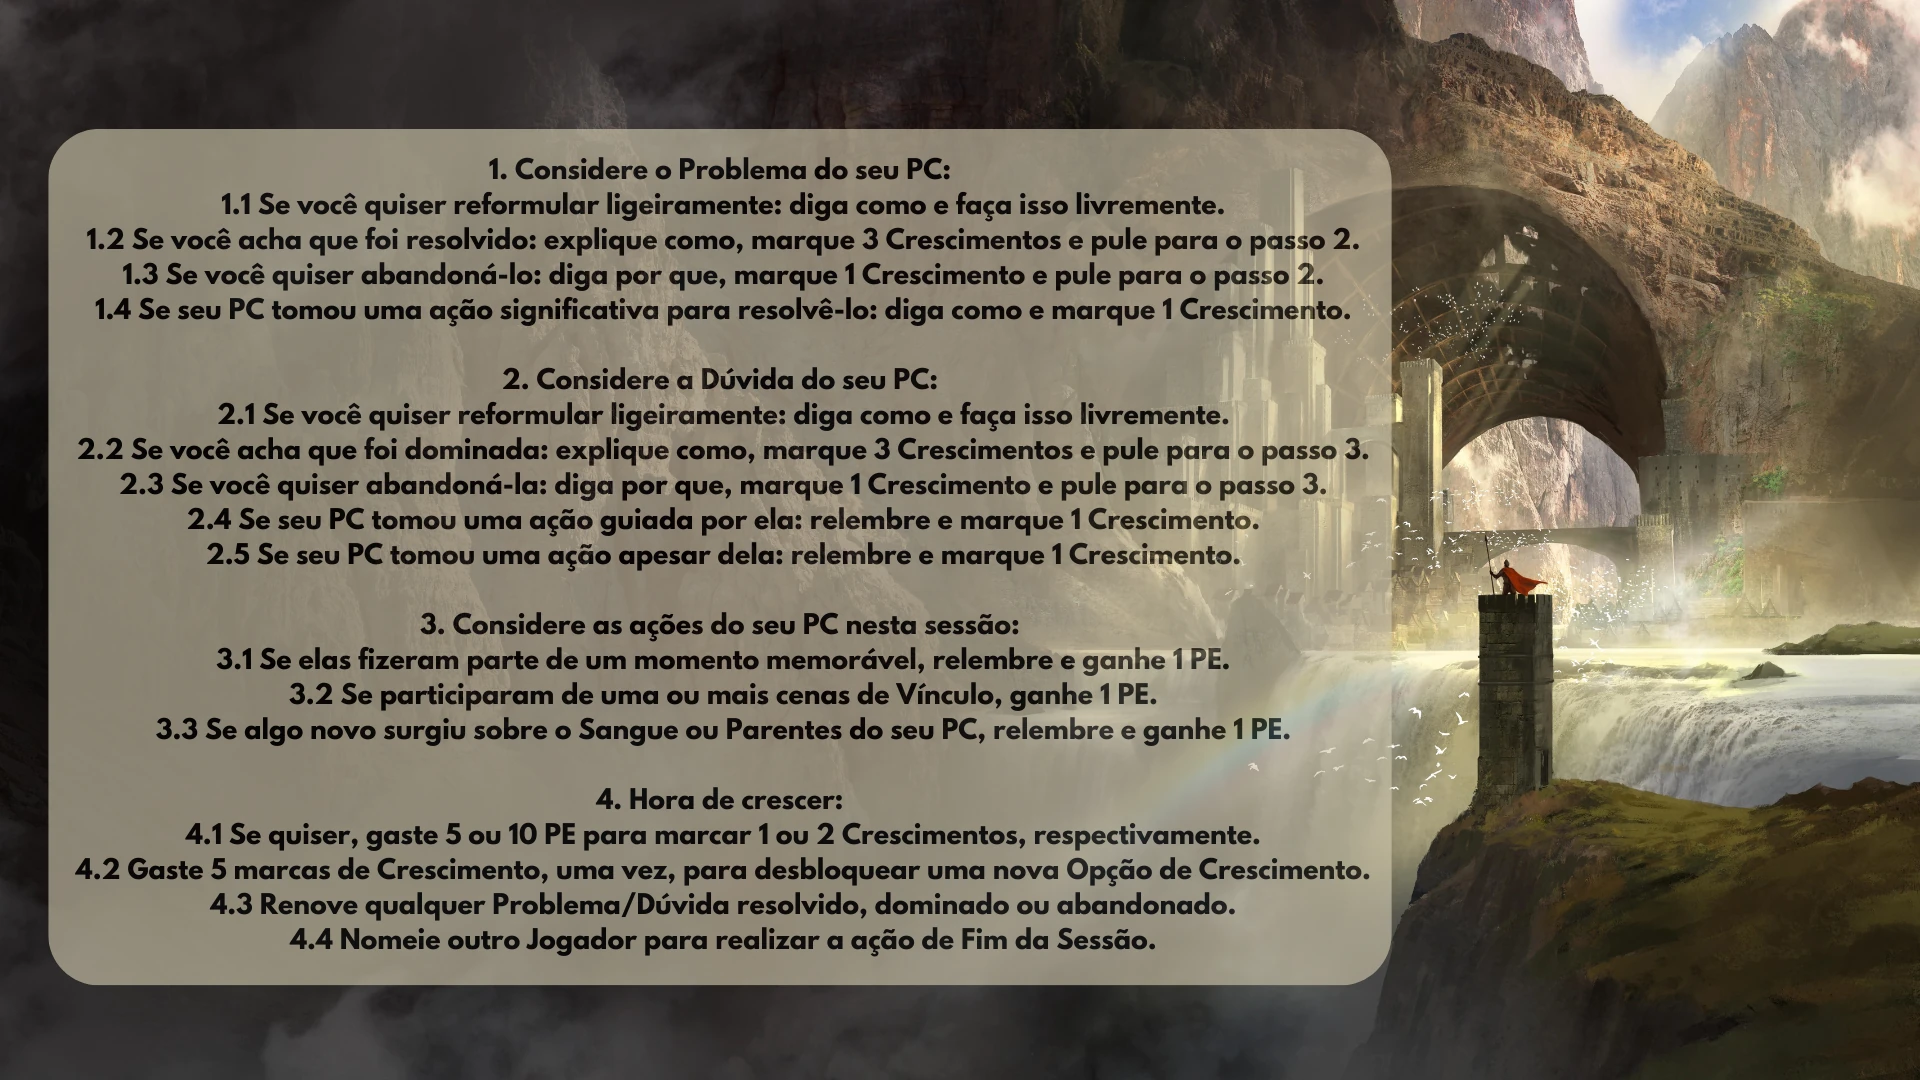
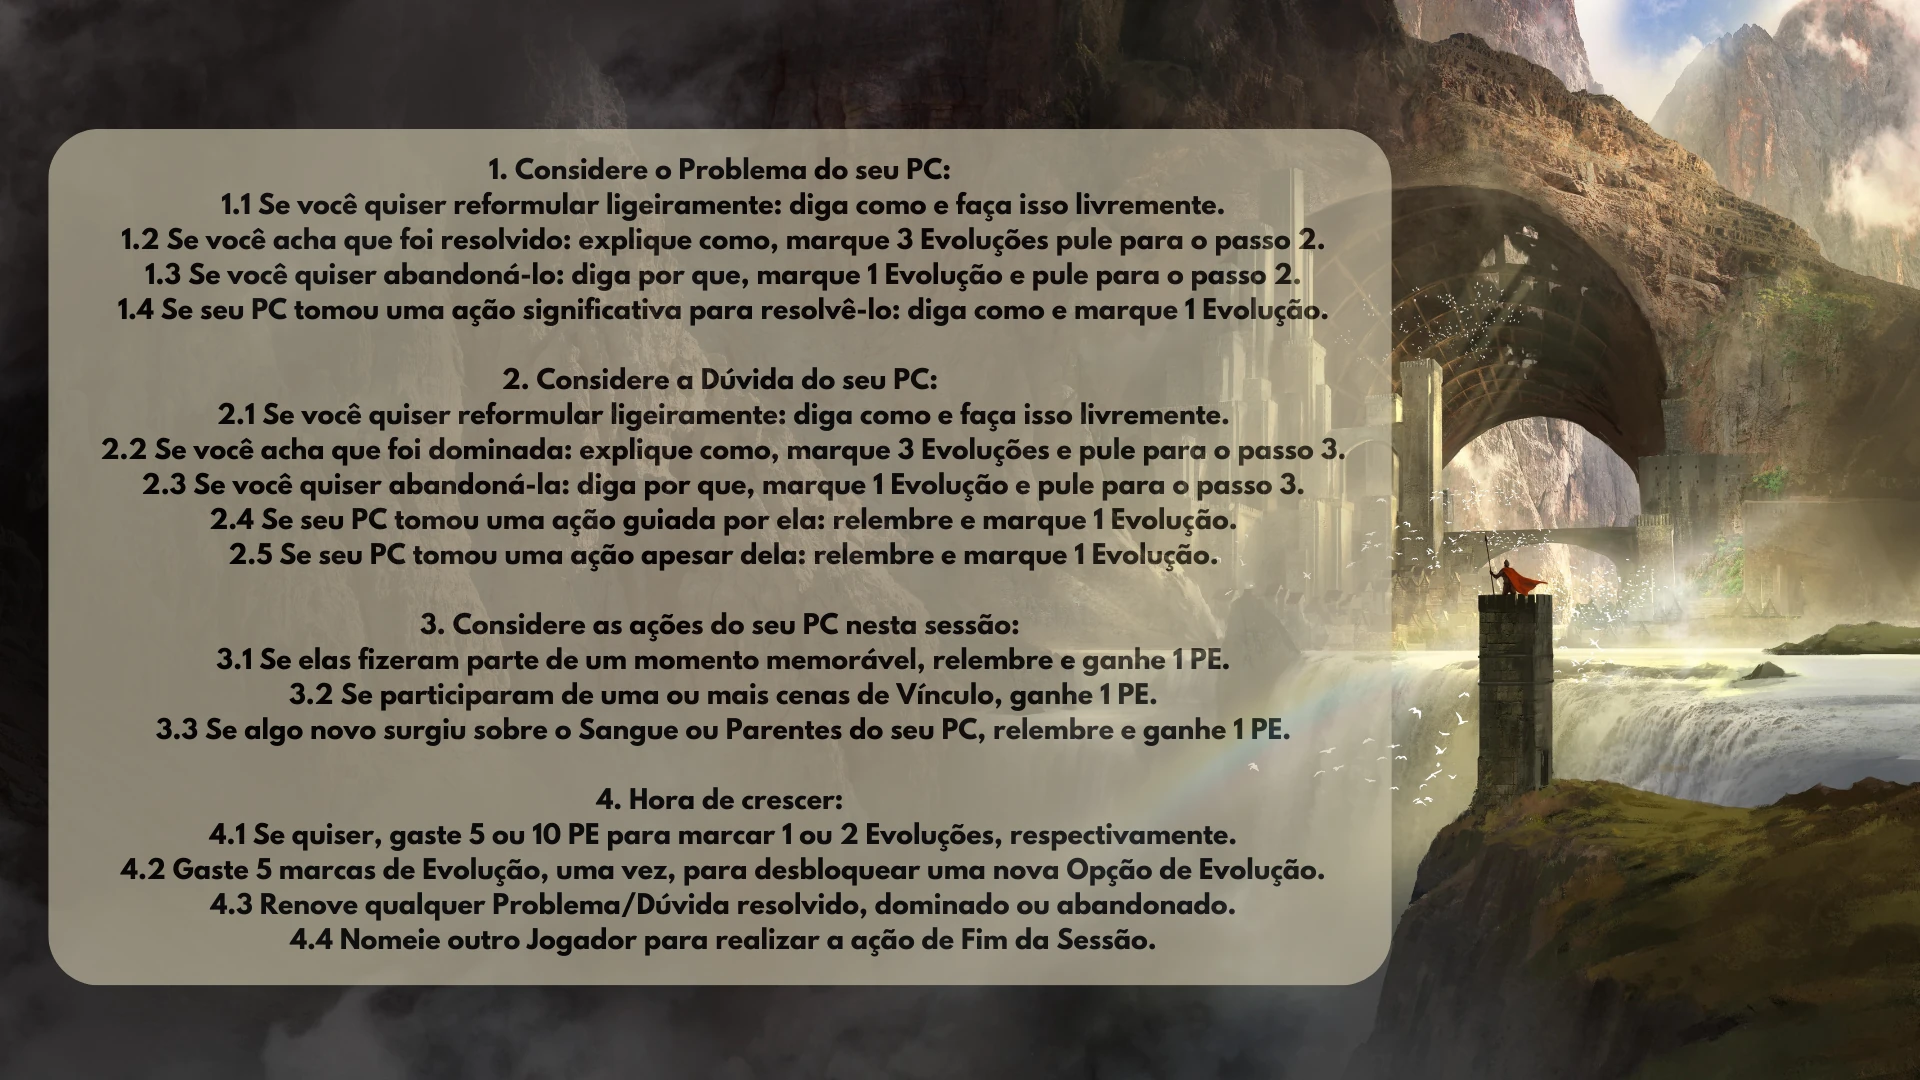
1.0.5

Changed region(s): [[0.0312, 0.3972, 0.7188, 0.5194], [0.0312, 0.2139, 0.7188, 0.3056], [0.0312, 0.7639, 0.7188, 0.825]]

diff --git a/CHANGELOG.md b/CHANGELOG.md
@@ -1,3 +1,6 @@
+# 1.0.5
+- arrumei a imagem de fim de sessão
+
 # 1.0.4
 - crescimento trocado por evolução
 
